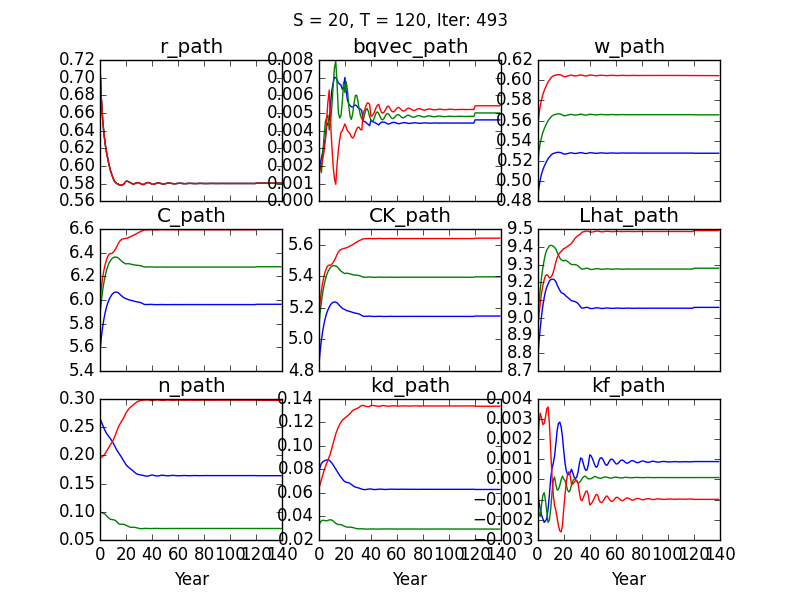
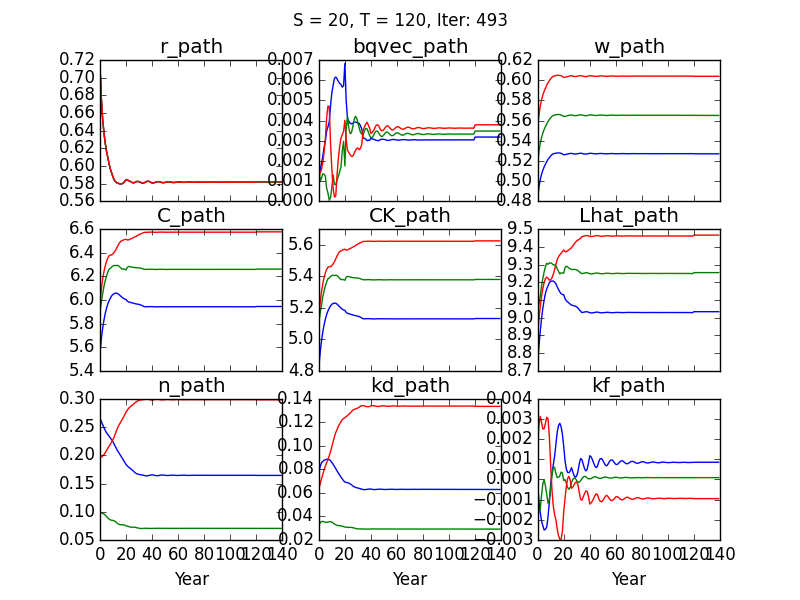
merging with upstream

diff --git a/Python/7CountryAlphaV3/AuxiliaryClass.py b/Python/7CountryAlphaV3/AuxiliaryClass.py
@@ -217,7 +217,7 @@ class OLG(object):
 
         #Increases fertility rates to account for different number of periods lived
         self.all_FertilityRates = self.all_FertilityRates*80/self.S
-        #self.MortalityRates = self.MortalityRates*80/self.S
+        self.MortalityRates = self.MortalityRates*80/self.S
 
         #The last generation dies with probability 1
         self.MortalityRates[:,-1,:] = np.ones((self.I, self.T))
